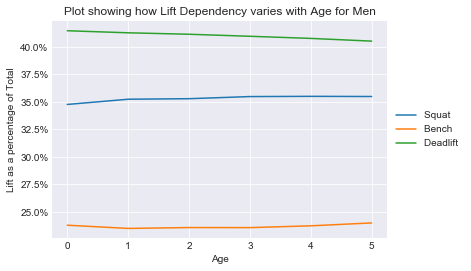
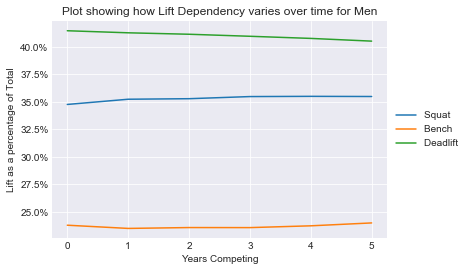
Added Age plots to webpage

Changed region(s): [[0.1189, 0.0295, 0.8025, 0.059], [0.3864, 0.9446, 0.5648, 0.9742]]

diff --git a/LiftDependency.py b/LiftDependency.py
@@ -75,8 +75,8 @@ for S in df['Sex'].unique():
     dfPlot.plot(x = 'YearBin', y = ['Squat ','Bench ','Deadlift '], 
                      kind = 'line')
     
-    plt.title('Plot showing how Lift Dependency varies with Age for {}'.format(SexName))
-    plt.xlabel('Age')
+    plt.title('Plot showing how Lift Dependency varies over time for {}'.format(SexName))
+    plt.xlabel('Years Competing')
     plt.ylabel('Lift as a percentage of Total')
     plt.gca().yaxis.set_major_formatter(PercentFormatter(1))
     plt.legend(loc = 'center left', bbox_to_anchor=(1, 0.5), fancybox = True,
